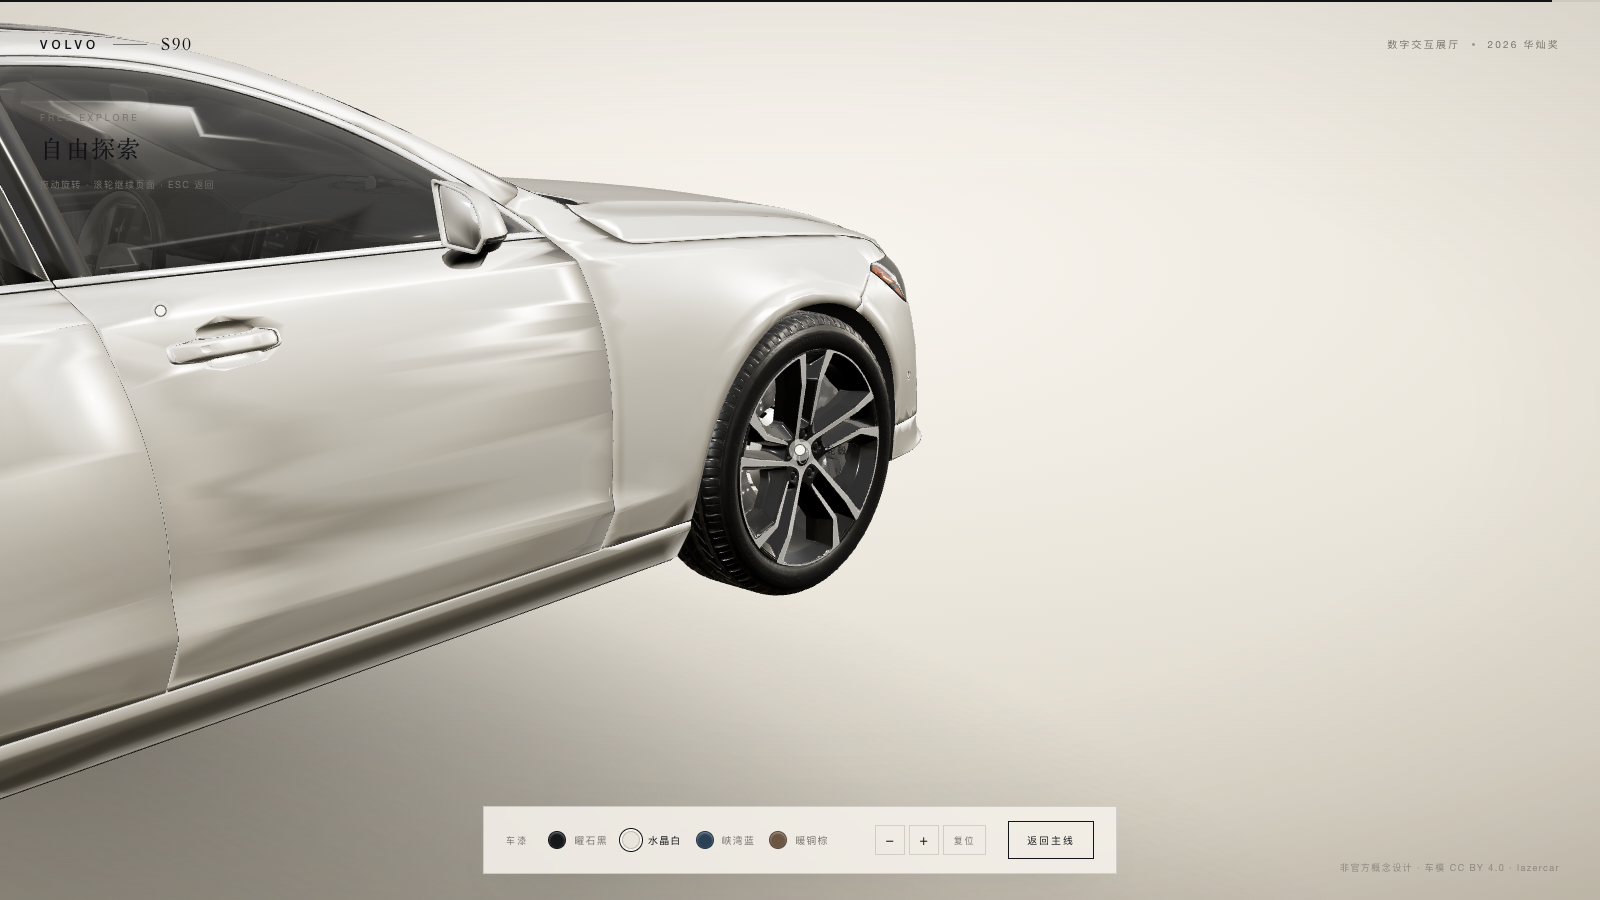
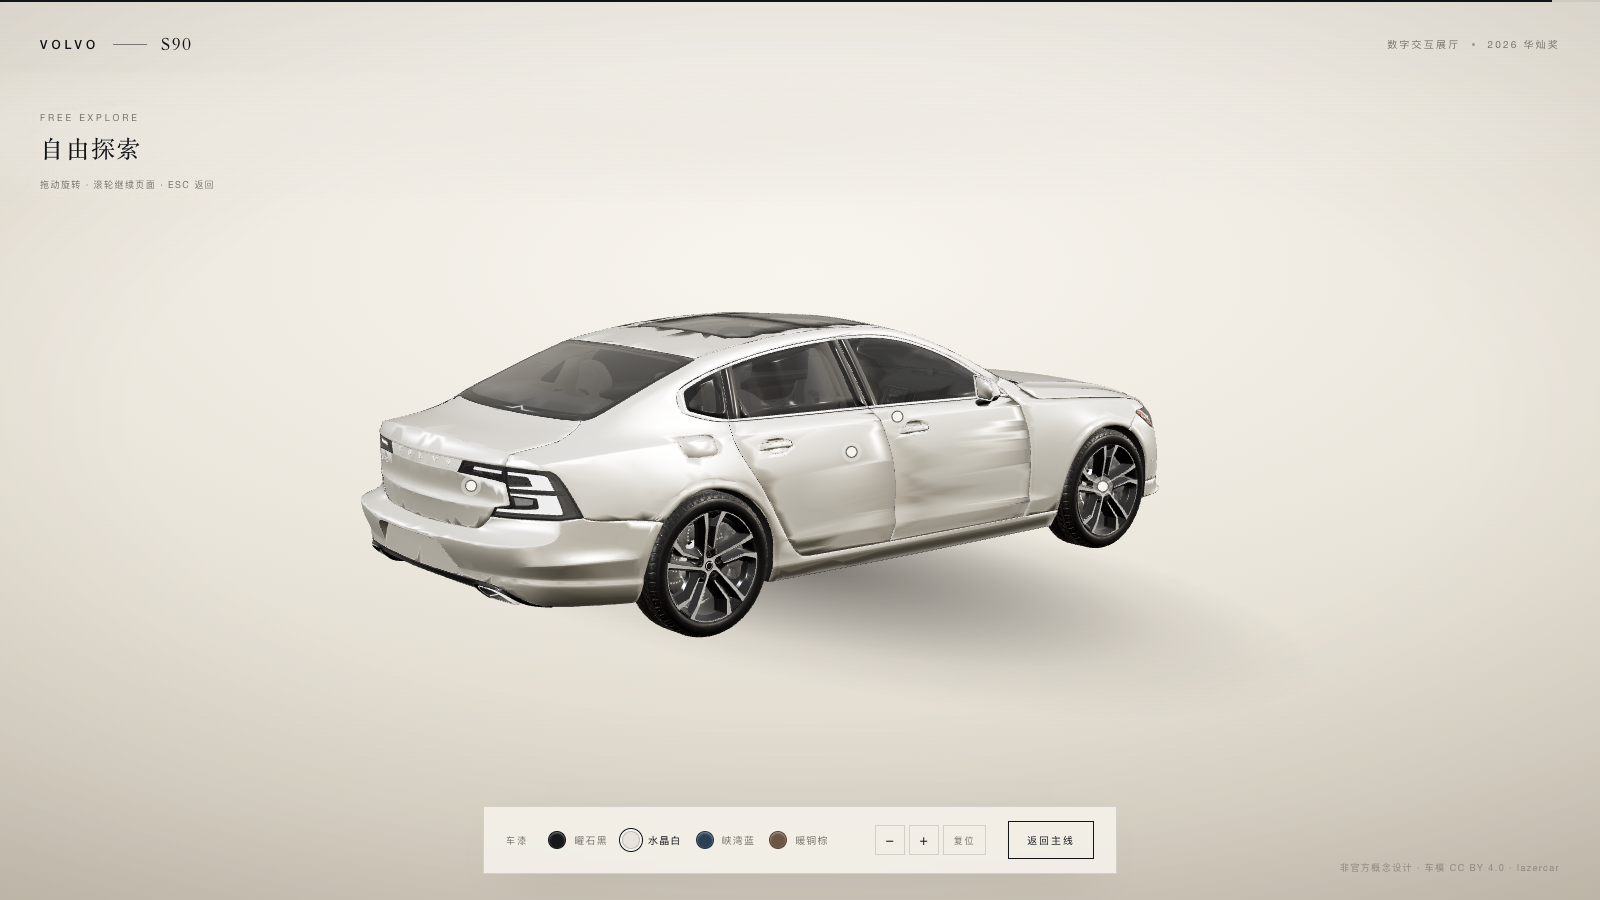
polish: 热点聚焦取景、探索标题衬底与终检数据更新
- focus 距离 3.4→6.0、目标混入 0.3 车身中心，避免部件特写裁掉整车
- 标题加纸色径向衬底，深色/浅色车漆上均可读
- FINAL_QA 更新两次终检数据与仓库一致性检查

diff --git a/src/scene/CameraSystem.jsx b/src/scene/CameraSystem.jsx
@@ -7,6 +7,7 @@ import { clamp } from '../lib/math.js';
 import { sampleCamera } from '../story/story.js';
 
 const _pos = new THREE.Vector3();
+const _body = new THREE.Vector3(0, 0.72, 0);
 const _tgt = new THREE.Vector3();
 const _offset = new THREE.Vector3();
 const _look = new THREE.Vector3();
@@ -118,11 +119,13 @@ export function CameraSystem({ stateRef, explore, api }) {
       },
       focus(hotspotPos) {
         if (!explore) return;
-        _look.set(...hotspotPos);
+        // Keep some context around the part: aim slightly towards the body
+        // centre and stand back far enough that the car is not sliced.
+        _look.set(...hotspotPos).lerp(_body, 0.3);
         _offset.copy(camera.position).sub(_look);
         if (_offset.lengthSq() < 1e-4) _offset.set(-1, 0.4, 0.4);
-        _offset.setLength(3.4);
-        _offset.y = Math.max(_offset.y, 0.9);
+        _offset.setLength(6.0);
+        _offset.y = Math.max(_offset.y, 1.05);
         _pos.copy(_look).add(_offset);
         moveTo(_pos.clone(), _look.clone(), 1.1);
       },

diff --git a/src/styles/global.css b/src/styles/global.css
@@ -1454,3 +1454,27 @@ a {
 .context-lost .btn {
   margin-top: 8px;
 }
+
+/* Keep the explore title legible when the car (dark or light) sits behind it. */
+.explore__title-en,
+.explore__title-zh,
+.explore__hint {
+  text-shadow:
+    0 0 16px rgba(237, 233, 225, 0.95),
+    0 0 5px rgba(237, 233, 225, 0.9);
+}
+
+.explore__title {
+  position: relative;
+  padding: 10px 18px 12px;
+  margin: -10px 0 0 -18px;
+}
+
+.explore__title::before {
+  content: '';
+  position: absolute;
+  inset: -30px -54px -26px -34px;
+  z-index: -1;
+  background: radial-gradient(62% 66% at 34% 44%, rgba(237, 233, 225, 0.94), rgba(237, 233, 225, 0));
+  pointer-events: none;
+}

diff --git a/docs/reports/FINAL_QA.md b/docs/reports/FINAL_QA.md
@@ -10,8 +10,8 @@
 ## 2. 桌面 1600×900
 | 项 | 实测 | 判定 |
 | --- | --- | --- |
-| 开场 → 揭幕 | 6.80s（空缓存，含 14.54MB 模型下载/解析/编译） | PASS |
-| 帧率 | 61fps（2s 采样） | PASS（headless/Metal） |
+| 开场 → 揭幕 | 6.90s（空缓存，含 14.54MB 模型下载/解析/编译） | PASS |
+| 帧率 | 61fps（2s 采样；两次终检 60–61fps） | PASS（headless/Metal） |
 | 章节状态 | 0.05 整车 → 0.2 灯组 → 0.33 轮毂 → 0.46 侧面 → 0.59 座舱 → 0.715 车尾 → 0.84 收起 → 0.97 探索 → 回 0.46 详情复现 | PASS |
 | 详情可逆 | 0.84 关闭、回 0.46 重新打开 | PASS |
 | 车漆 | 点击后 `data-active` = 水晶白 | PASS |
@@ -24,7 +24,7 @@
 ## 3. 移动 390×844
 | 项 | 实测 | 判定 |
 | --- | --- | --- |
-| 揭幕 | 6.71s | PASS |
+| 揭幕 | 6.64s | PASS |
 | 座舱配色控件 | 底部抽屉内可见、可点击 | PASS |
 | 横向溢出 | 0px | PASS |
 | 探索工具条 | x=16、宽 358、视口 390，不溢出 | PASS |
@@ -36,15 +36,15 @@
 ## 4. 参赛展板
 | 文件 | 尺寸 | 色彩 | dpi | 大小 | 判定 |
 | --- | --- | --- | --- | --- | --- |
-| `s90_board_01.jpg` | 4961×3508 | RGB | 300 | 5.984 MB | PASS |
-| `s90_board_02.jpg` | 4961×3508 | RGB | 300 | 5.803 MB | PASS |
-| `s90_board_03.jpg` | 4961×3508 | RGB | 300 | 5.897 MB | PASS |
+| `deliverables/s90_board_01.jpg` | 4961×3508 | RGB | 300 | 5.984 MB | PASS |
+| `deliverables/s90_board_02.jpg` | 4961×3508 | RGB | 300 | 5.803 MB | PASS |
+| `deliverables/s90_board_03.jpg` | 4961×3508 | RGB | 300 | 5.897 MB | PASS |
 
 展板 02 的“概念内饰”注记、展板 03 的探索/移动端内容均来自本轮真实截图；页脚无姓名/学校。
 
 ## 5. 材料清单
 - 阶段报告 21 份（01、01A、02–20）+ `INDEX.md` + 本报告。
-- 设计说明、交互流程、适配、授权：`docs/DESIGN_STATEMENT.md`、`INTERACTION_FLOW.md`、`ADAPTATION.md`、`ASSET_LICENSES.md`。
+- 设计说明、交互流程、适配、授权：`docs/DESIGN_STATEMENT.md`、`docs/INTERACTION_FLOW.md`、`docs/ADAPTATION.md`、`docs/ASSET_LICENSES.md`。
 - 演示：`deliverables/s90_demo.mp4`（37.3s，含座舱配色切换）。
 - 截图：`docs/reports/`（含 final-*.png、cabin-*.png、context-lost.png、kbd-paint.png）。
 
@@ -62,3 +62,10 @@
 - `s90_board_01.jpg` 5.984 MB，距 6MB 上限仅 16KB；若平台二次转码需重新导出。
 - 帧率为 headless Chromium/Metal 记录，不代表所有设备；移动端未标称帧率。
 - 内饰配色是纹理乘色（概念级），近景皮革颗粒不随主题改变。
+
+
+## 8. 仓库一致性检查
+- `npm run build` 最终 1.83s：JS 1,153.91 kB（gzip 333.05 kB）、CSS 18.78 kB（gzip 4.67 kB）。
+- 追踪文件 237 个；源模型 `source_assets/*.glb` 与录屏 `*.mov` 未入库（`.gitignore`）。
+- 最终产物：3 张展板 + 2 份 PDF + 1 张流程图 PNG + 1 段 mp4 + 21 份阶段报告 + 证据索引。
+- 修复项：移除每帧 `window.__cam` 调试分配；详情关闭时焦点回落到 body；热点聚焦距离 3.4→6.0m 并混入 0.3 车身中心，避免裁车；探索标题加纸色径向衬底，深色车身上仍可读。
